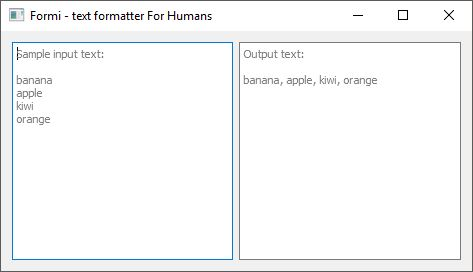
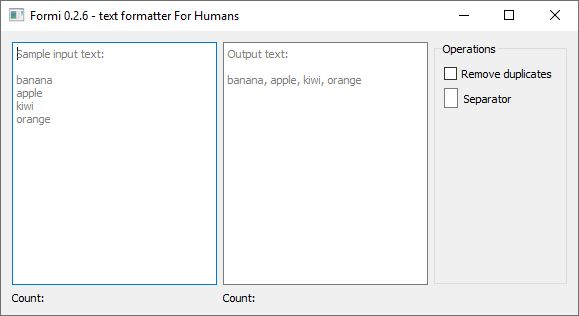
Release 0.2.6
Soft releasing Formi. Added new features that I want to have with this application. This will be very useful when I process data from a spreadsheet.

Enjoy this new one. Stay safe, healthy and resilient during this crisis :pray:

Changed region(s): [[0.0, 0.1176, 1.0, 1.0], [0.0, 0.0, 1.0, 0.0882]]

diff --git a/README.md b/README.md
@@ -6,6 +6,8 @@ A simple text formatter _For Humans_.
 
 Benefits
 ---
-* Easily format copied rows from Excel into comma separated text.
+* Easily format copied rows from MS Excel into comma separated text.
+* Remove duplicate items on a string.
+* Count number of items on a string.
+* Customizable separator character between items on a string.
 * Auto-copy of formatted text.
-
